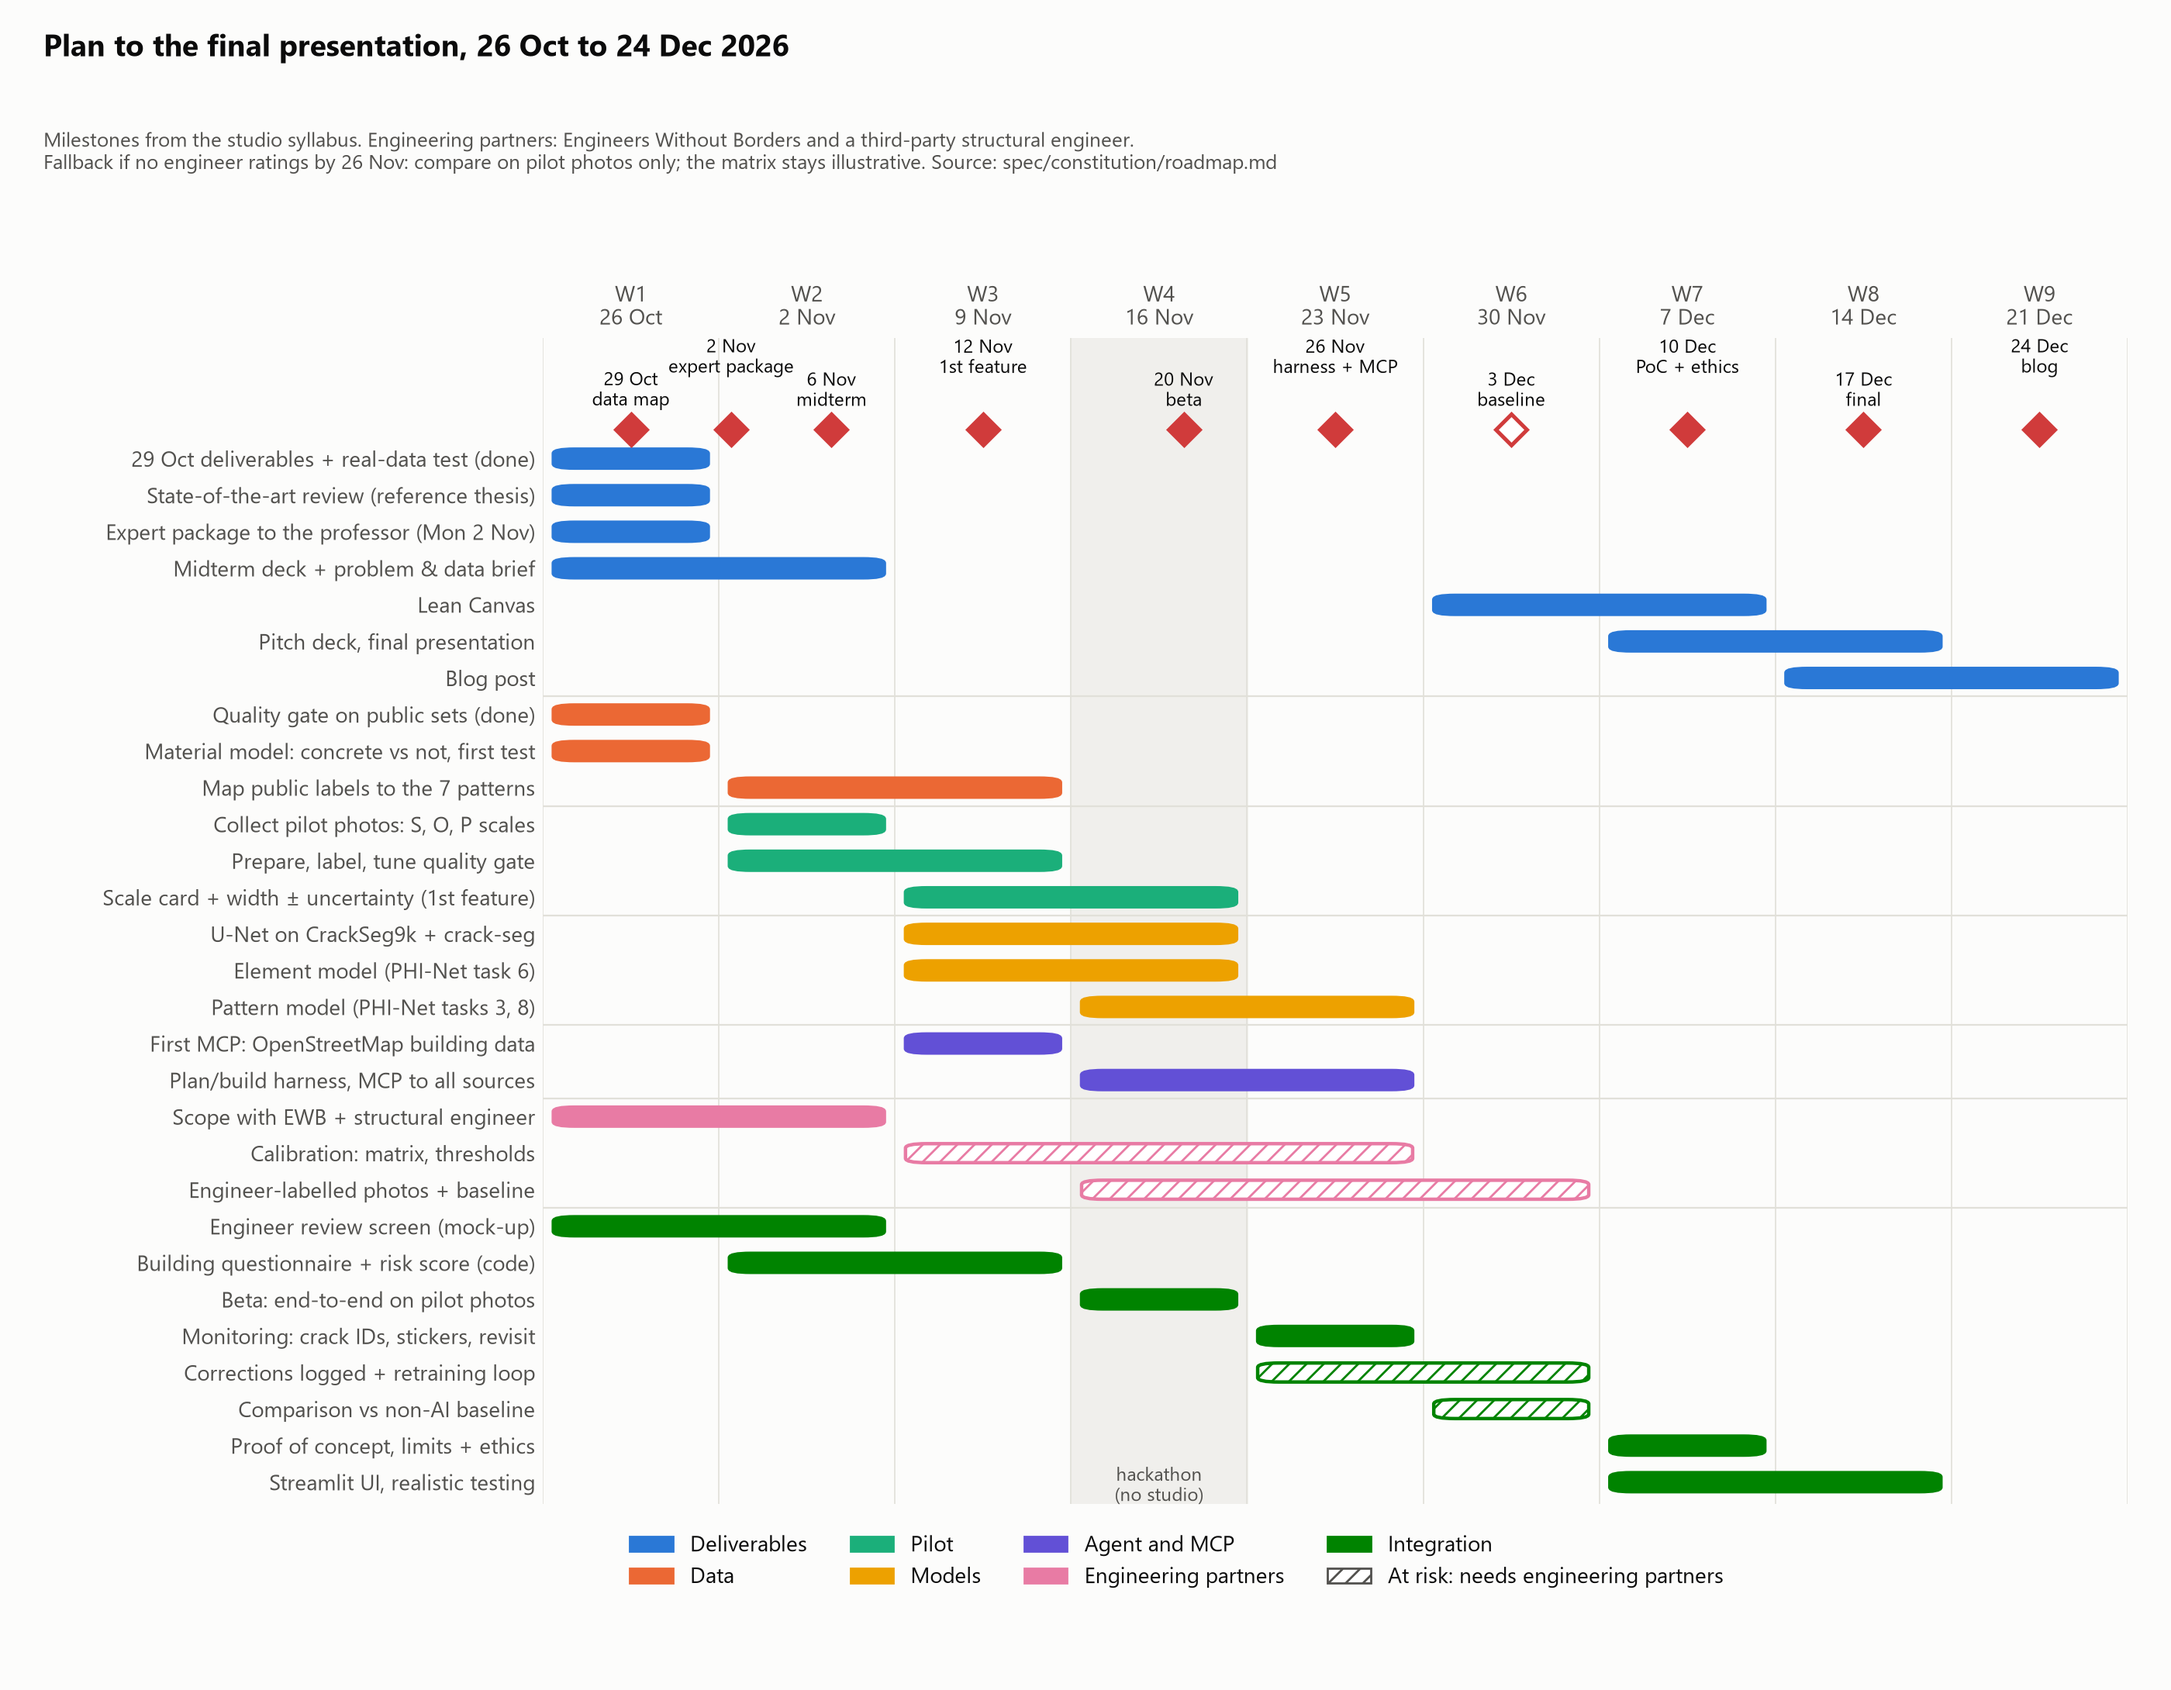
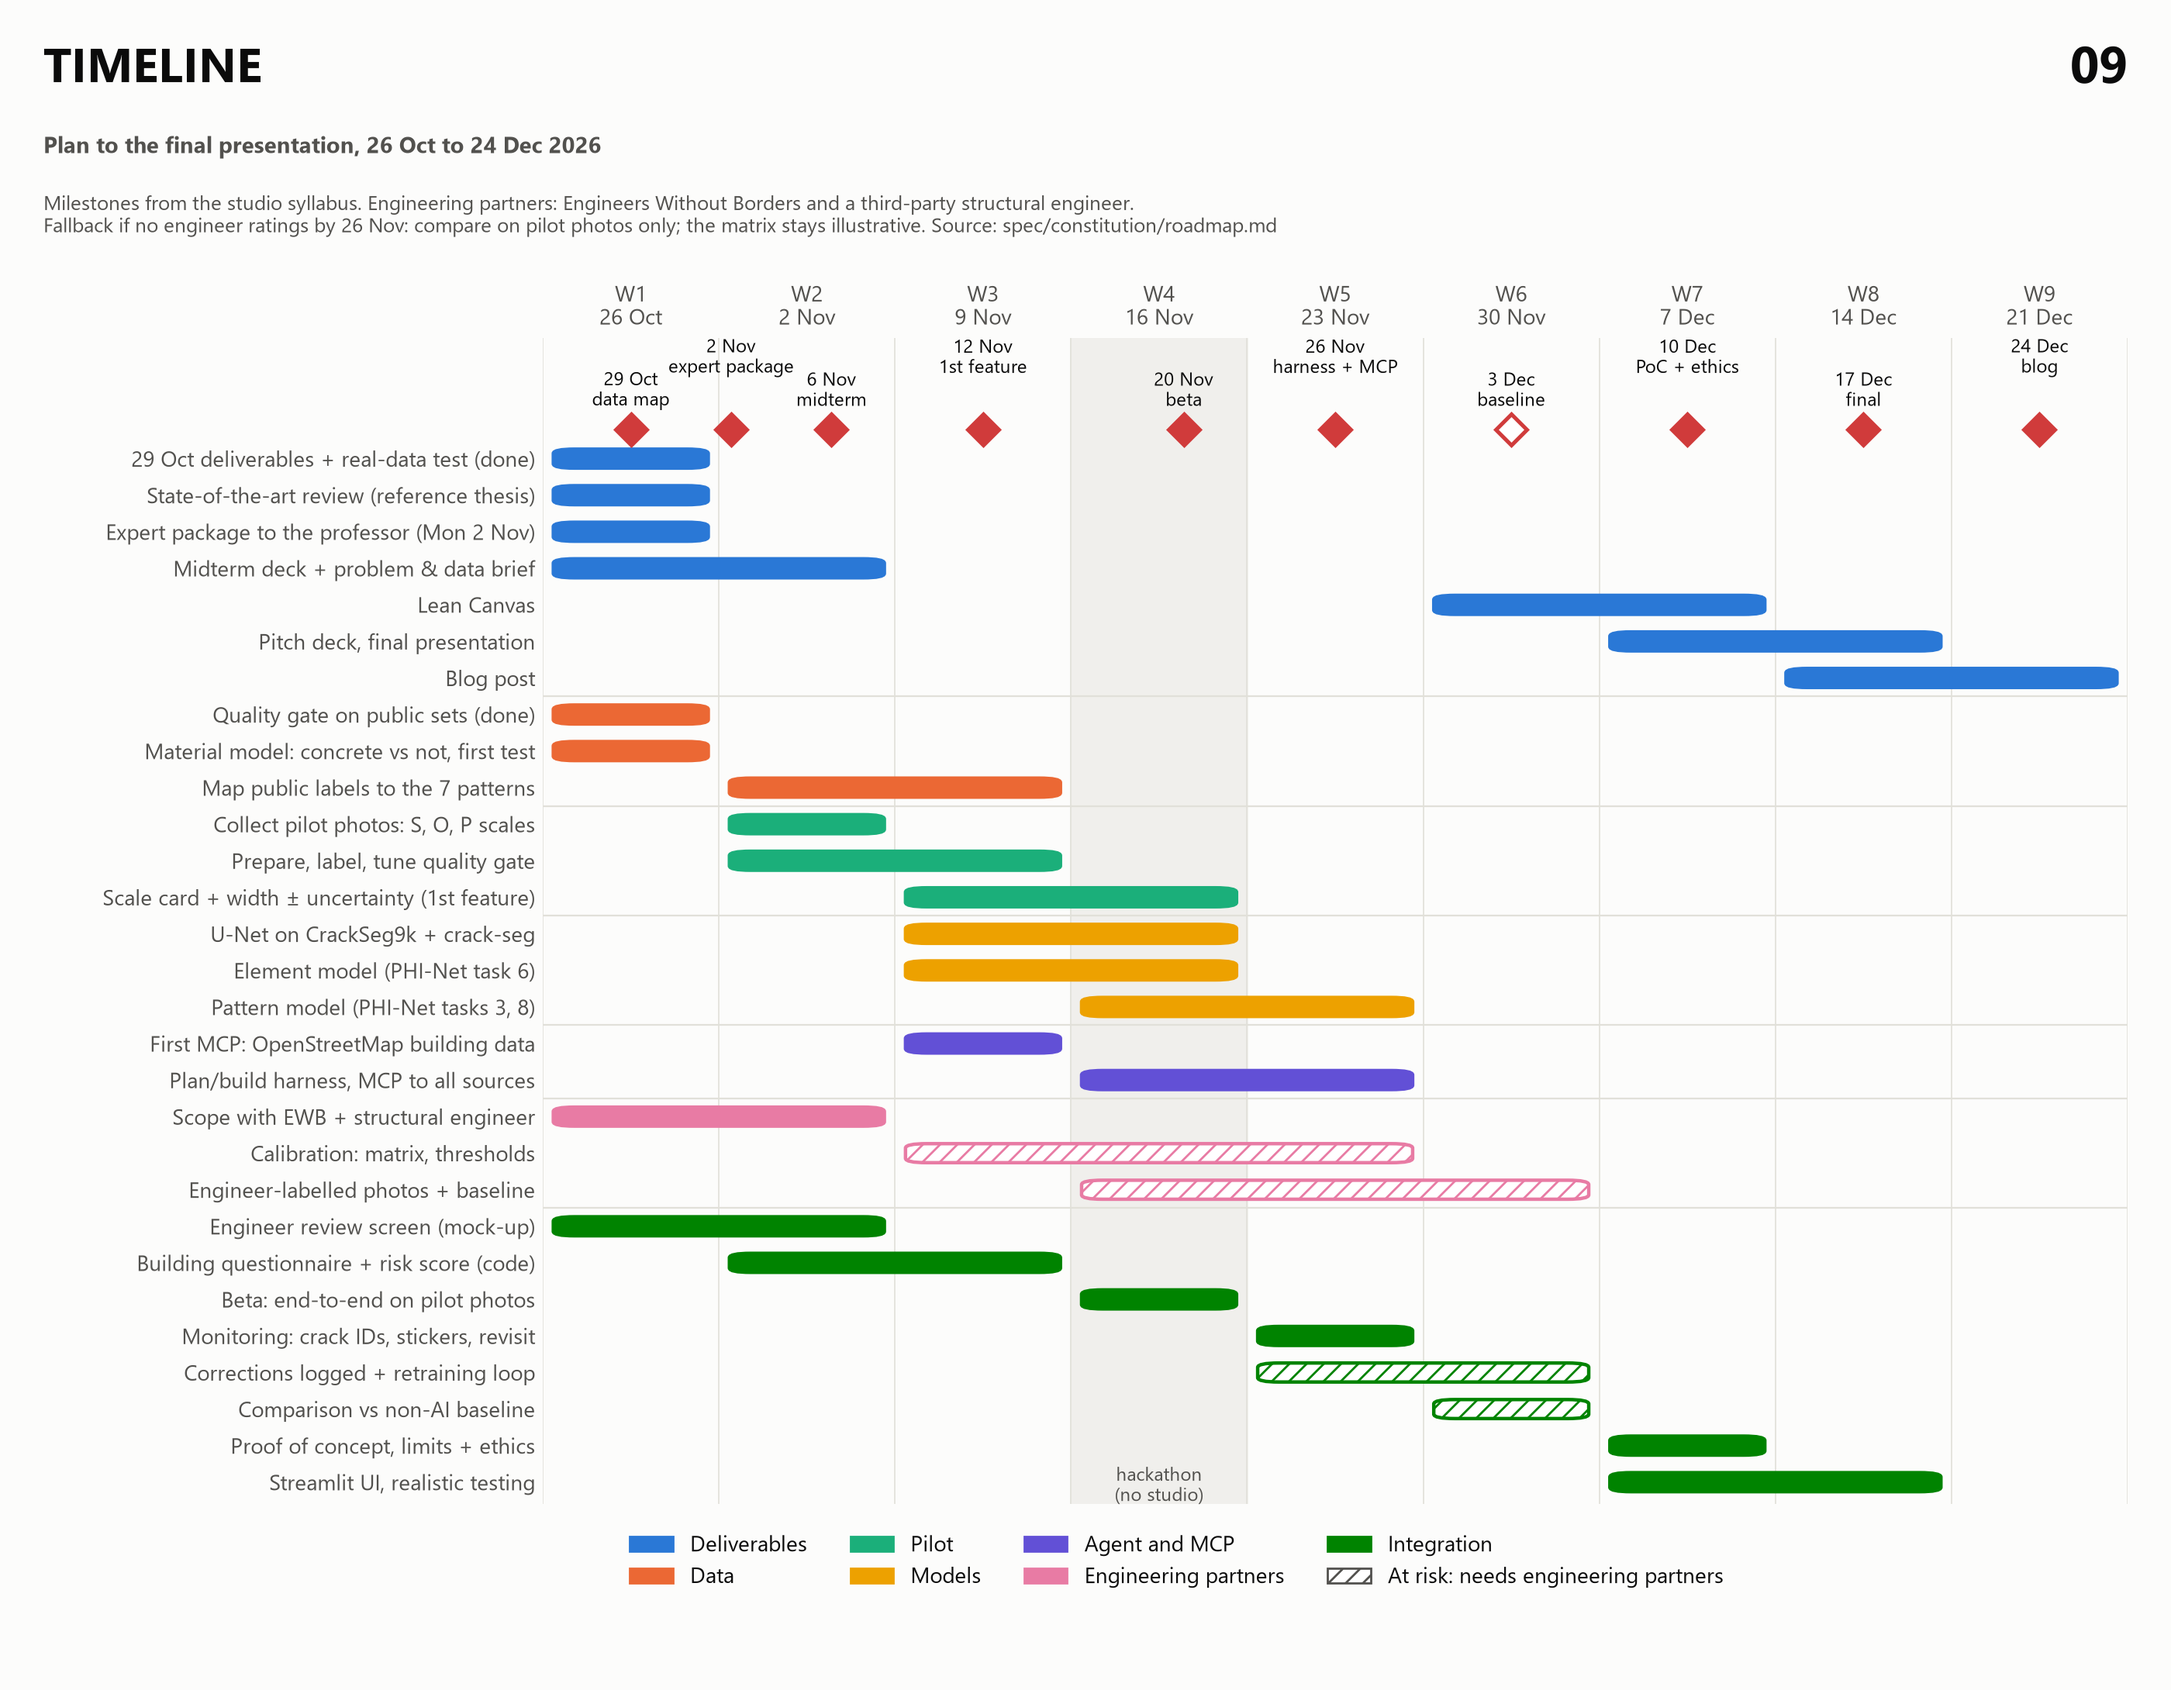
Figure 09 title: TIMELINE in the house title style

Changed region(s): [[0.0311, 0.0, 0.5282, 0.156], [0.9321, 0.0312, 0.9943, 0.0624], [0.5282, 0.1248, 0.5593, 0.156]]

diff --git a/src/viz/figures.py b/src/viz/figures.py
@@ -1029,11 +1029,15 @@ def timeline():
     handles = [Patch(facecolor=c, edgecolor=c, label=s) for s, c in WORKSTREAM_COLOURS.items()]
     handles.append(Patch(facecolor="white", edgecolor=INK_2, hatch="///", label="At risk: needs engineering partners"))
     ax.legend(handles=handles, loc="upper center", bbox_to_anchor=(0.4, -0.01), ncol=4, frameon=False)
-    fig.suptitle("Plan to the final presentation, 26 Oct to 24 Dec 2026", x=0.02, ha="left", fontsize=14,
-                 weight="bold")
-    fig.text(0.02, 0.9, "Milestones from the studio syllabus. Engineering partners: Engineers Without Borders and a "
+    H, W = fig.get_figheight(), fig.get_figwidth()  # title as in the other figures: 38 pt on a 24 in figure
+    fig.text(0.02, 1 - 0.45 / H, "TIMELINE", fontsize=38 * W / 24, weight="bold", color=INK, va="center")
+    fig.text(0.98, 1 - 0.45 / H, "09", fontsize=40 * W / 24, weight="bold", color=INK, va="center", ha="right")
+    fig.text(0.02, 1 - 0.95 / H, "Plan to the final presentation, 26 Oct to 24 Dec 2026", fontsize=18 * W / 24,
+             weight="bold", color=INK_2, va="center")
+    fig.text(0.02, 1 - 1.25 / H, "Milestones from the studio syllabus. Engineering partners: Engineers Without Borders and a "
              "third-party structural engineer.\nFallback if no engineer ratings by 26 Nov: compare on pilot photos "
-             "only; the matrix stays illustrative. Source: spec/constitution/roadmap.md", fontsize=9.5, color=INK_2)
+             "only; the matrix stays illustrative. Source: spec/constitution/roadmap.md", fontsize=9.5, color=INK_2,
+             va="top")
     fig.subplots_adjust(left=0.25, right=0.98, top=0.8, bottom=0.11)
     return fig
 
